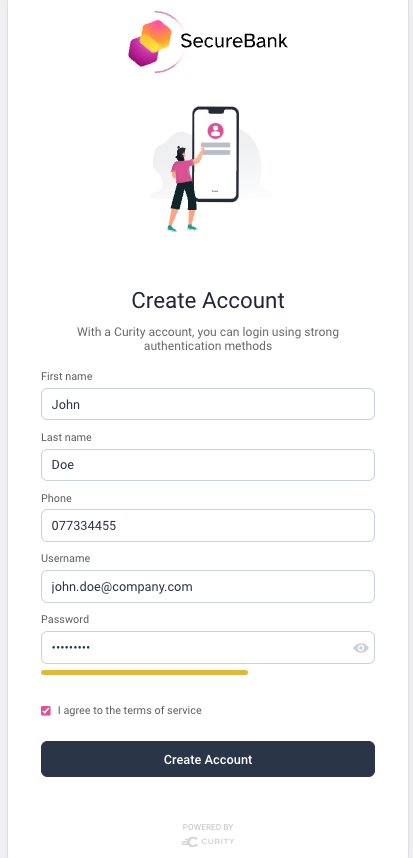
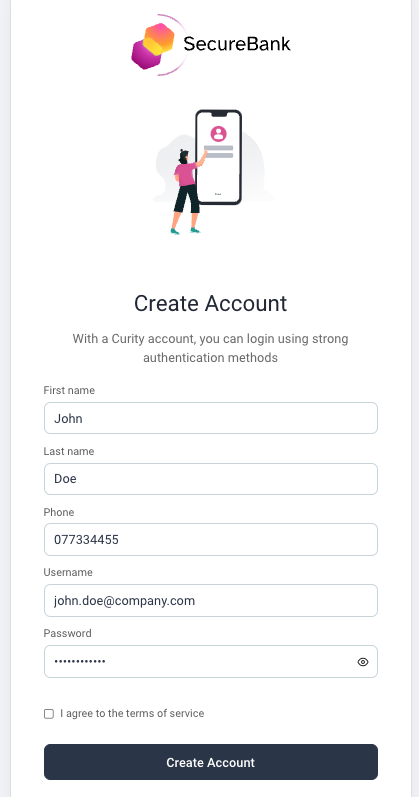
Updates

diff --git a/src/main/java/io/curity/identityserver/plugin/usernamepassword/utils/CredentialOperations.java b/src/main/java/io/curity/identityserver/plugin/usernamepassword/utils/CredentialOperations.java
@@ -30,6 +30,7 @@ public final class CredentialOperations {
         var filteredDetails = details.stream().filter(detail ->
                 !(detail instanceof SubjectCredentialsNotFound || detail instanceof PasswordRejectedByDataSource)
         ).toList();
+
         response.putViewData("_rejection_details", filteredDetails, Response.ResponseModelScope.FAILURE);
     }
 }

diff --git a/doc/activate-set-password.md b/doc/activate-set-password.md
@@ -30,15 +30,13 @@ A Credential Policy is optional but if configured these rules will be enforced:
 
 ## Activation Screen
 
-If the email link is valid, then the account is activated and the user is prompted to set a password:
+If the email link is valid, then the account is activated and the user is prompted to set a password.\
+The user then enters a new password which may need to meet a credential policy.\
+If this fails a screen of the following form is shown and the user can retry:
 
-![Account Verify Password](images/activate-set-password/account-verify-password.png)
+![Password Policy Failed](images/shared/password-policy-failed.png)
 
-If the new password fails the password policy a screen of the following form is shown and the user can retry:
-
-![Password Policy Failed](images/activate-set-password/password-policy-failed.png)
-
-At this point the account is activated and the user may login to your application:
+When the account is activated the user can then login to your applications:
 
 ![Account Verify Success](images/activate-account/account-verify-success.png)
 

diff --git a/doc/set-password.md b/doc/set-password.md
@@ -30,13 +30,10 @@ A Credential Policy is optional but if configured these rules will be enforced:
 ## Set Password Screen
 
 If the link is valid then the set password screen is invoked via a URL with this format: `/authn/authentication/set-password`.\
-The user then enters a new password and the indicator shows the password strength:
+The user then enters a new password which may need to meet a credential policy.\
+If this fails a screen of the following form is shown and the user can retry:
 
-![Set Password Screen](images/set-password/setting-password.png)
-
-If the new password fails the password policy a screen of the following form is shown and the user can retry:
-
-![Password Policy Failed](images/set-password/password-policy-failed.png)
+![Password Policy Failed](images/shared/password-policy-failed.png)
 
 Once the password is updated, the following screen is displayed.\
 The user can then return to the login screen and sign in to the application.

diff --git a/doc/create-account.md b/doc/create-account.md
@@ -30,14 +30,10 @@ The page is invoked via a GET request to a URL with this format: `/authn/registr
 
 ![Initial Screen](images/create-account/initial.png)
 
-In the event of invalid input being provided, a suitable error message is displayed.\
-The user's form input is maintained, except for the password and terms:
+If invalid input is provided, such as a password not meeting the policy, error messages are displayed.\
+The user's form input is maintained:
 
 ![Invalid Input](images/create-account/invalid-input.png)
-
-If a password is entered that fails the password policy a screen of the following form is shown and the user can retry:
-
-![Password Policy Failed](images/create-account/password-policy-failed.png)
 
 ## Successful Account Creation
 
